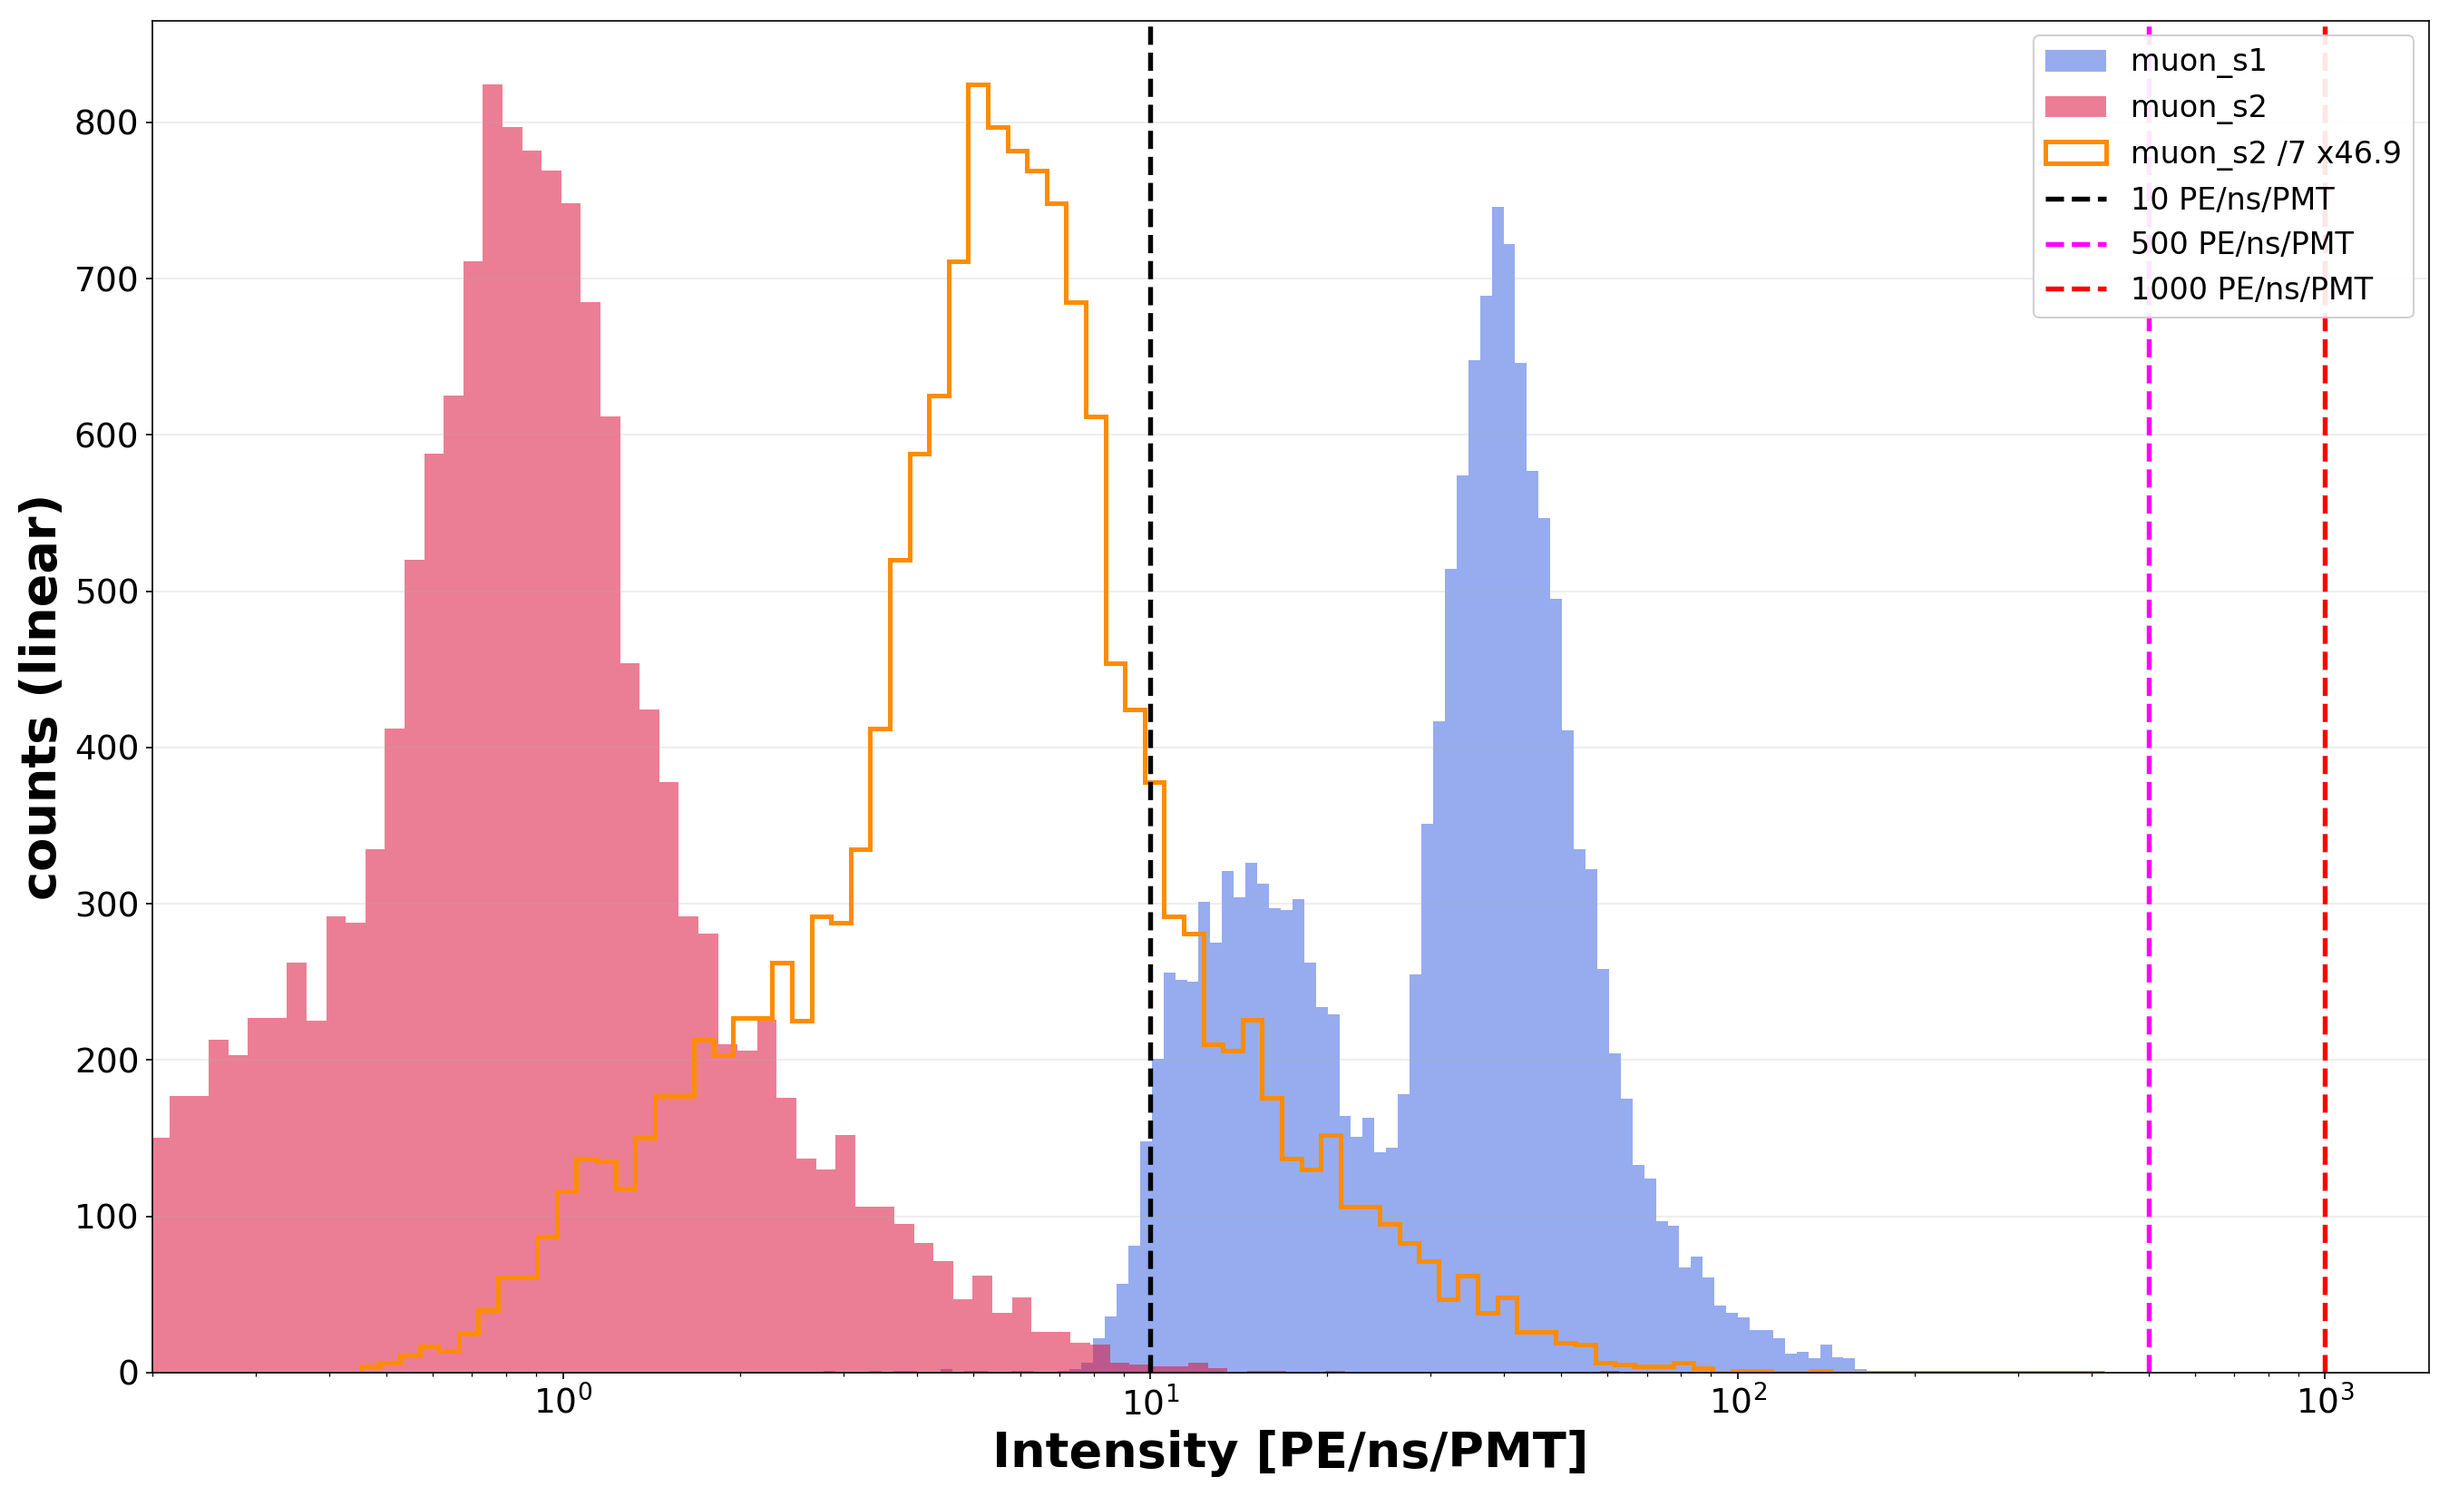
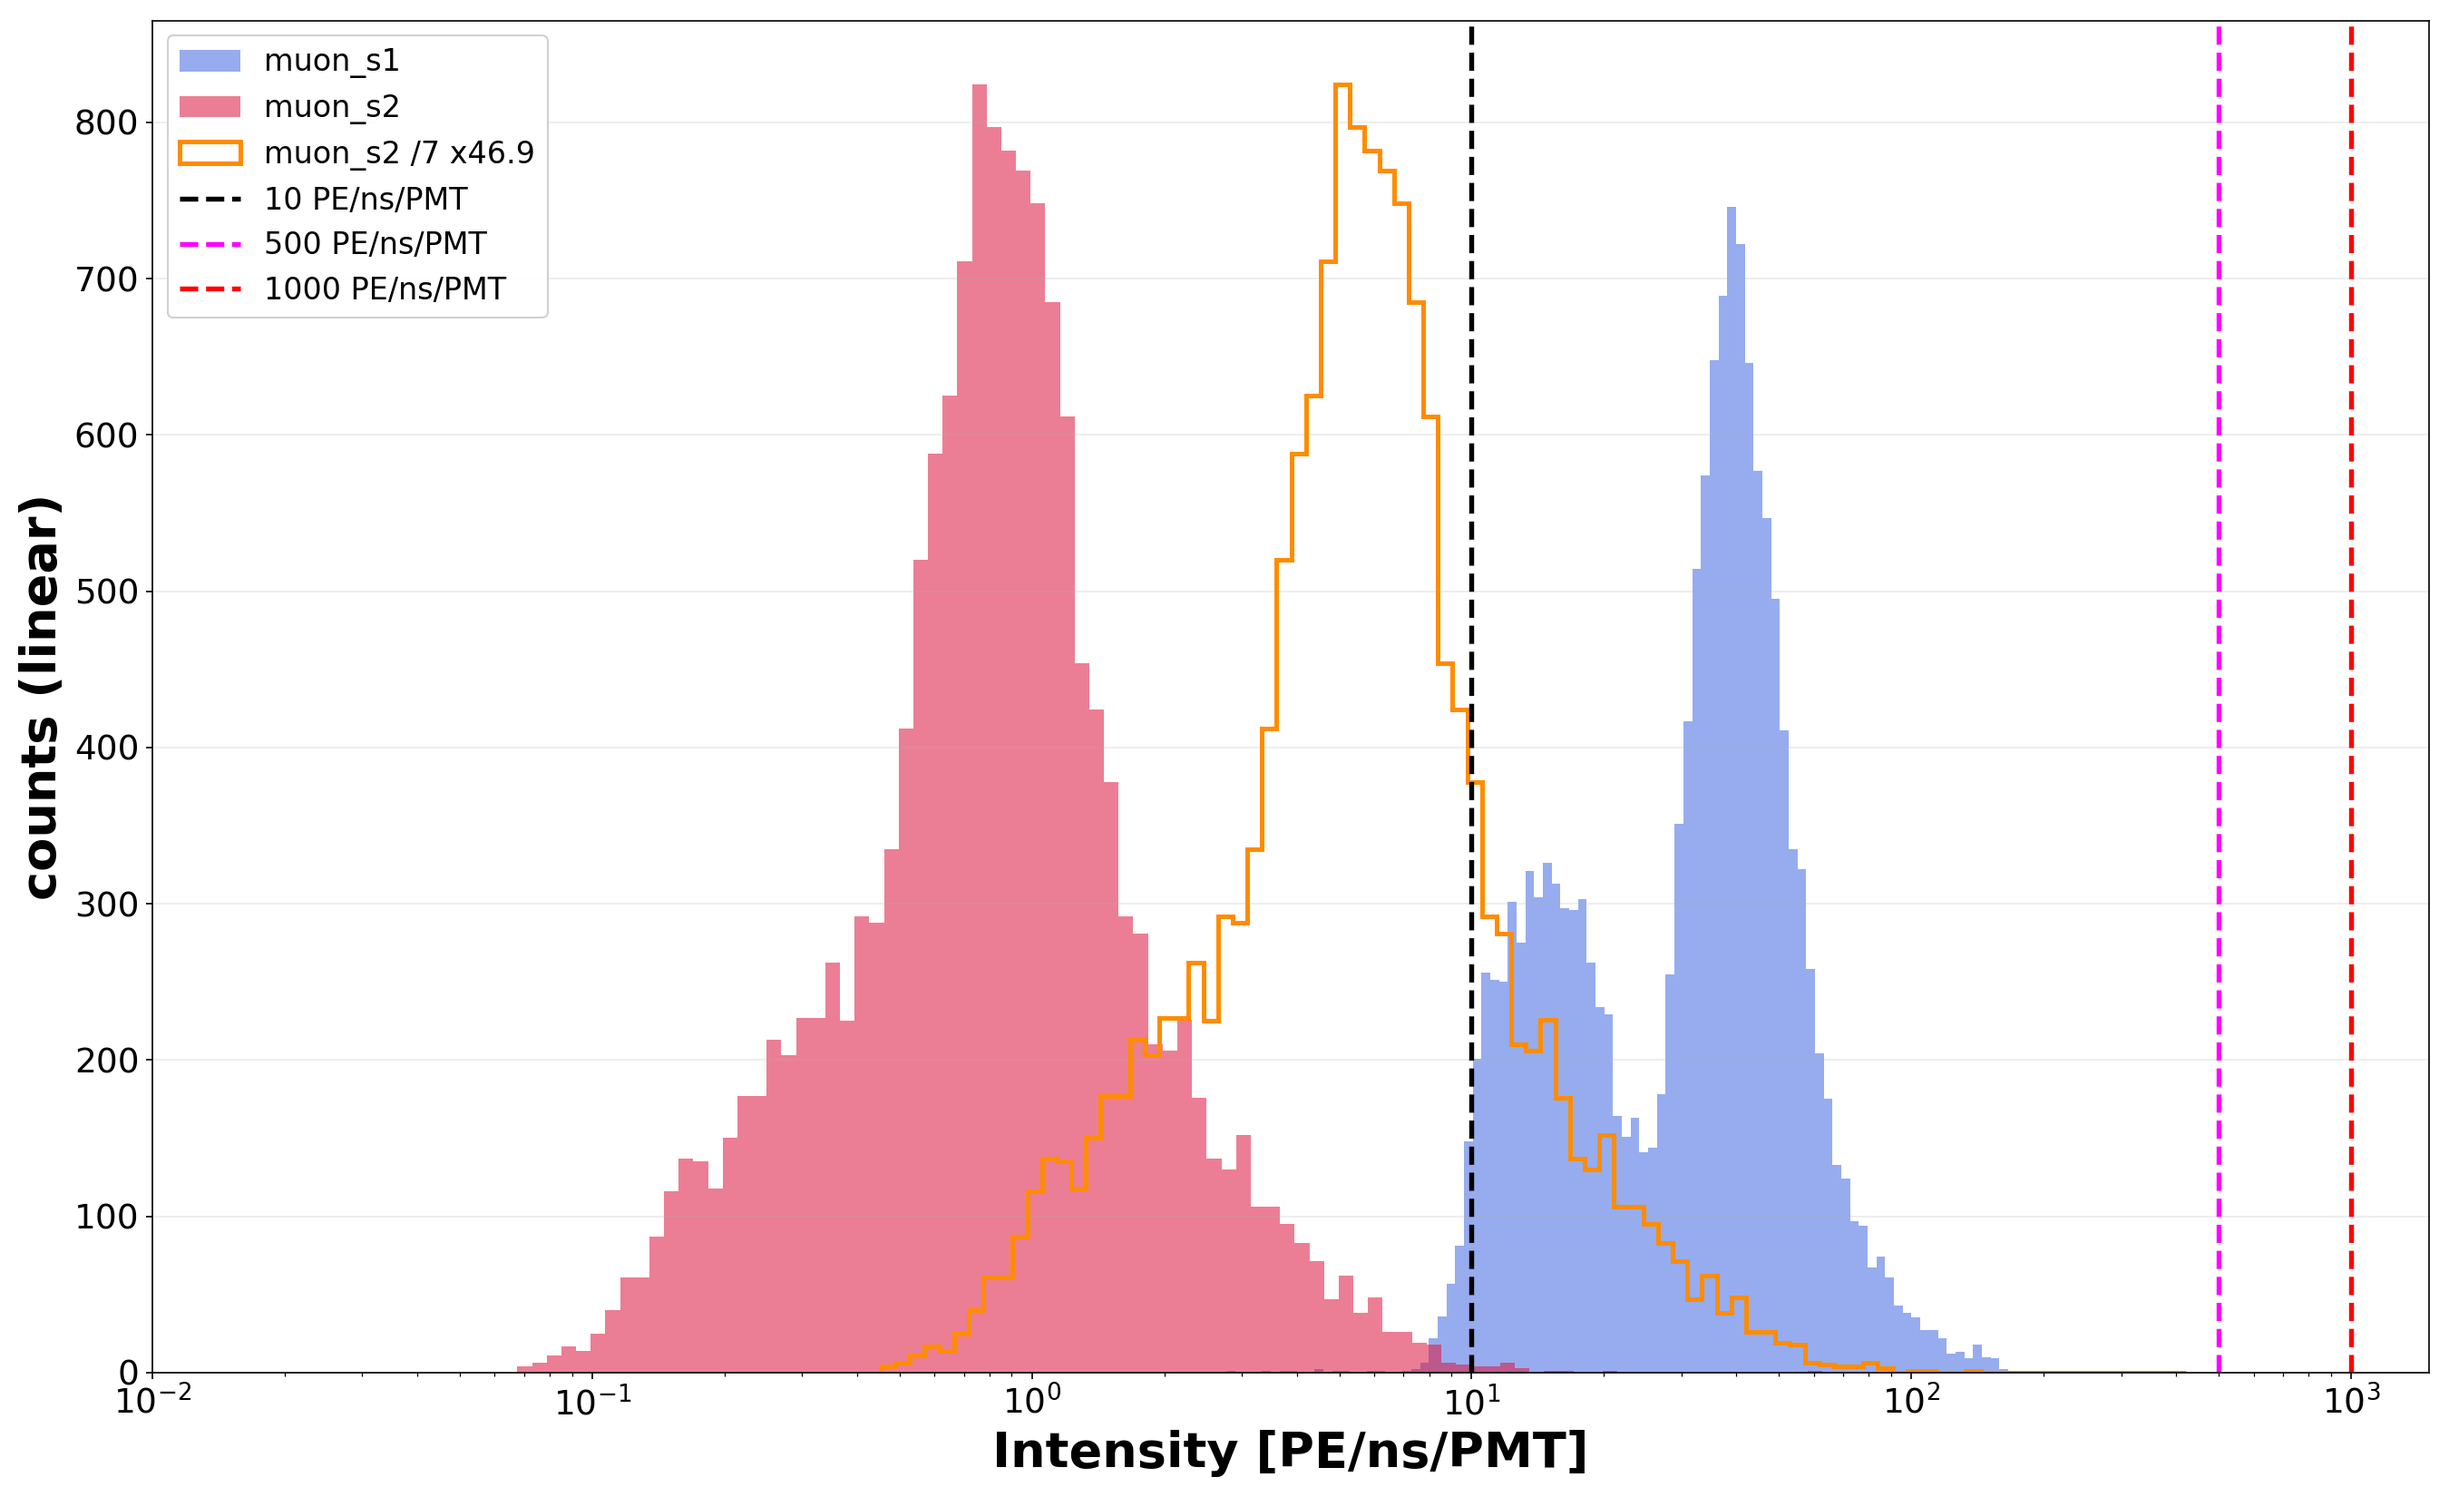
Extend intensity x-axis left limit to 1e-2

diff --git a/scripts/plot_muon_s1s2_params.py b/scripts/plot_muon_s1s2_params.py
@@ -148,7 +148,7 @@ def draw_intensity(yscale, name):
         ax.axvline(x, color=color, ls="--", lw=2.6, label=f"{x:g} PE/ns/PMT")
     ax.set_xscale("log")
     ax.set_yscale(yscale)
-    ax.set_xlim(2e-1, 1.5e3)
+    ax.set_xlim(1e-2, 1.5e3)
     ax.set_xlabel("Intensity [PE/ns/PMT]")
     ax.set_ylabel(f"counts ({yscale})")
     ax.grid(True, axis="y", alpha=0.25)
